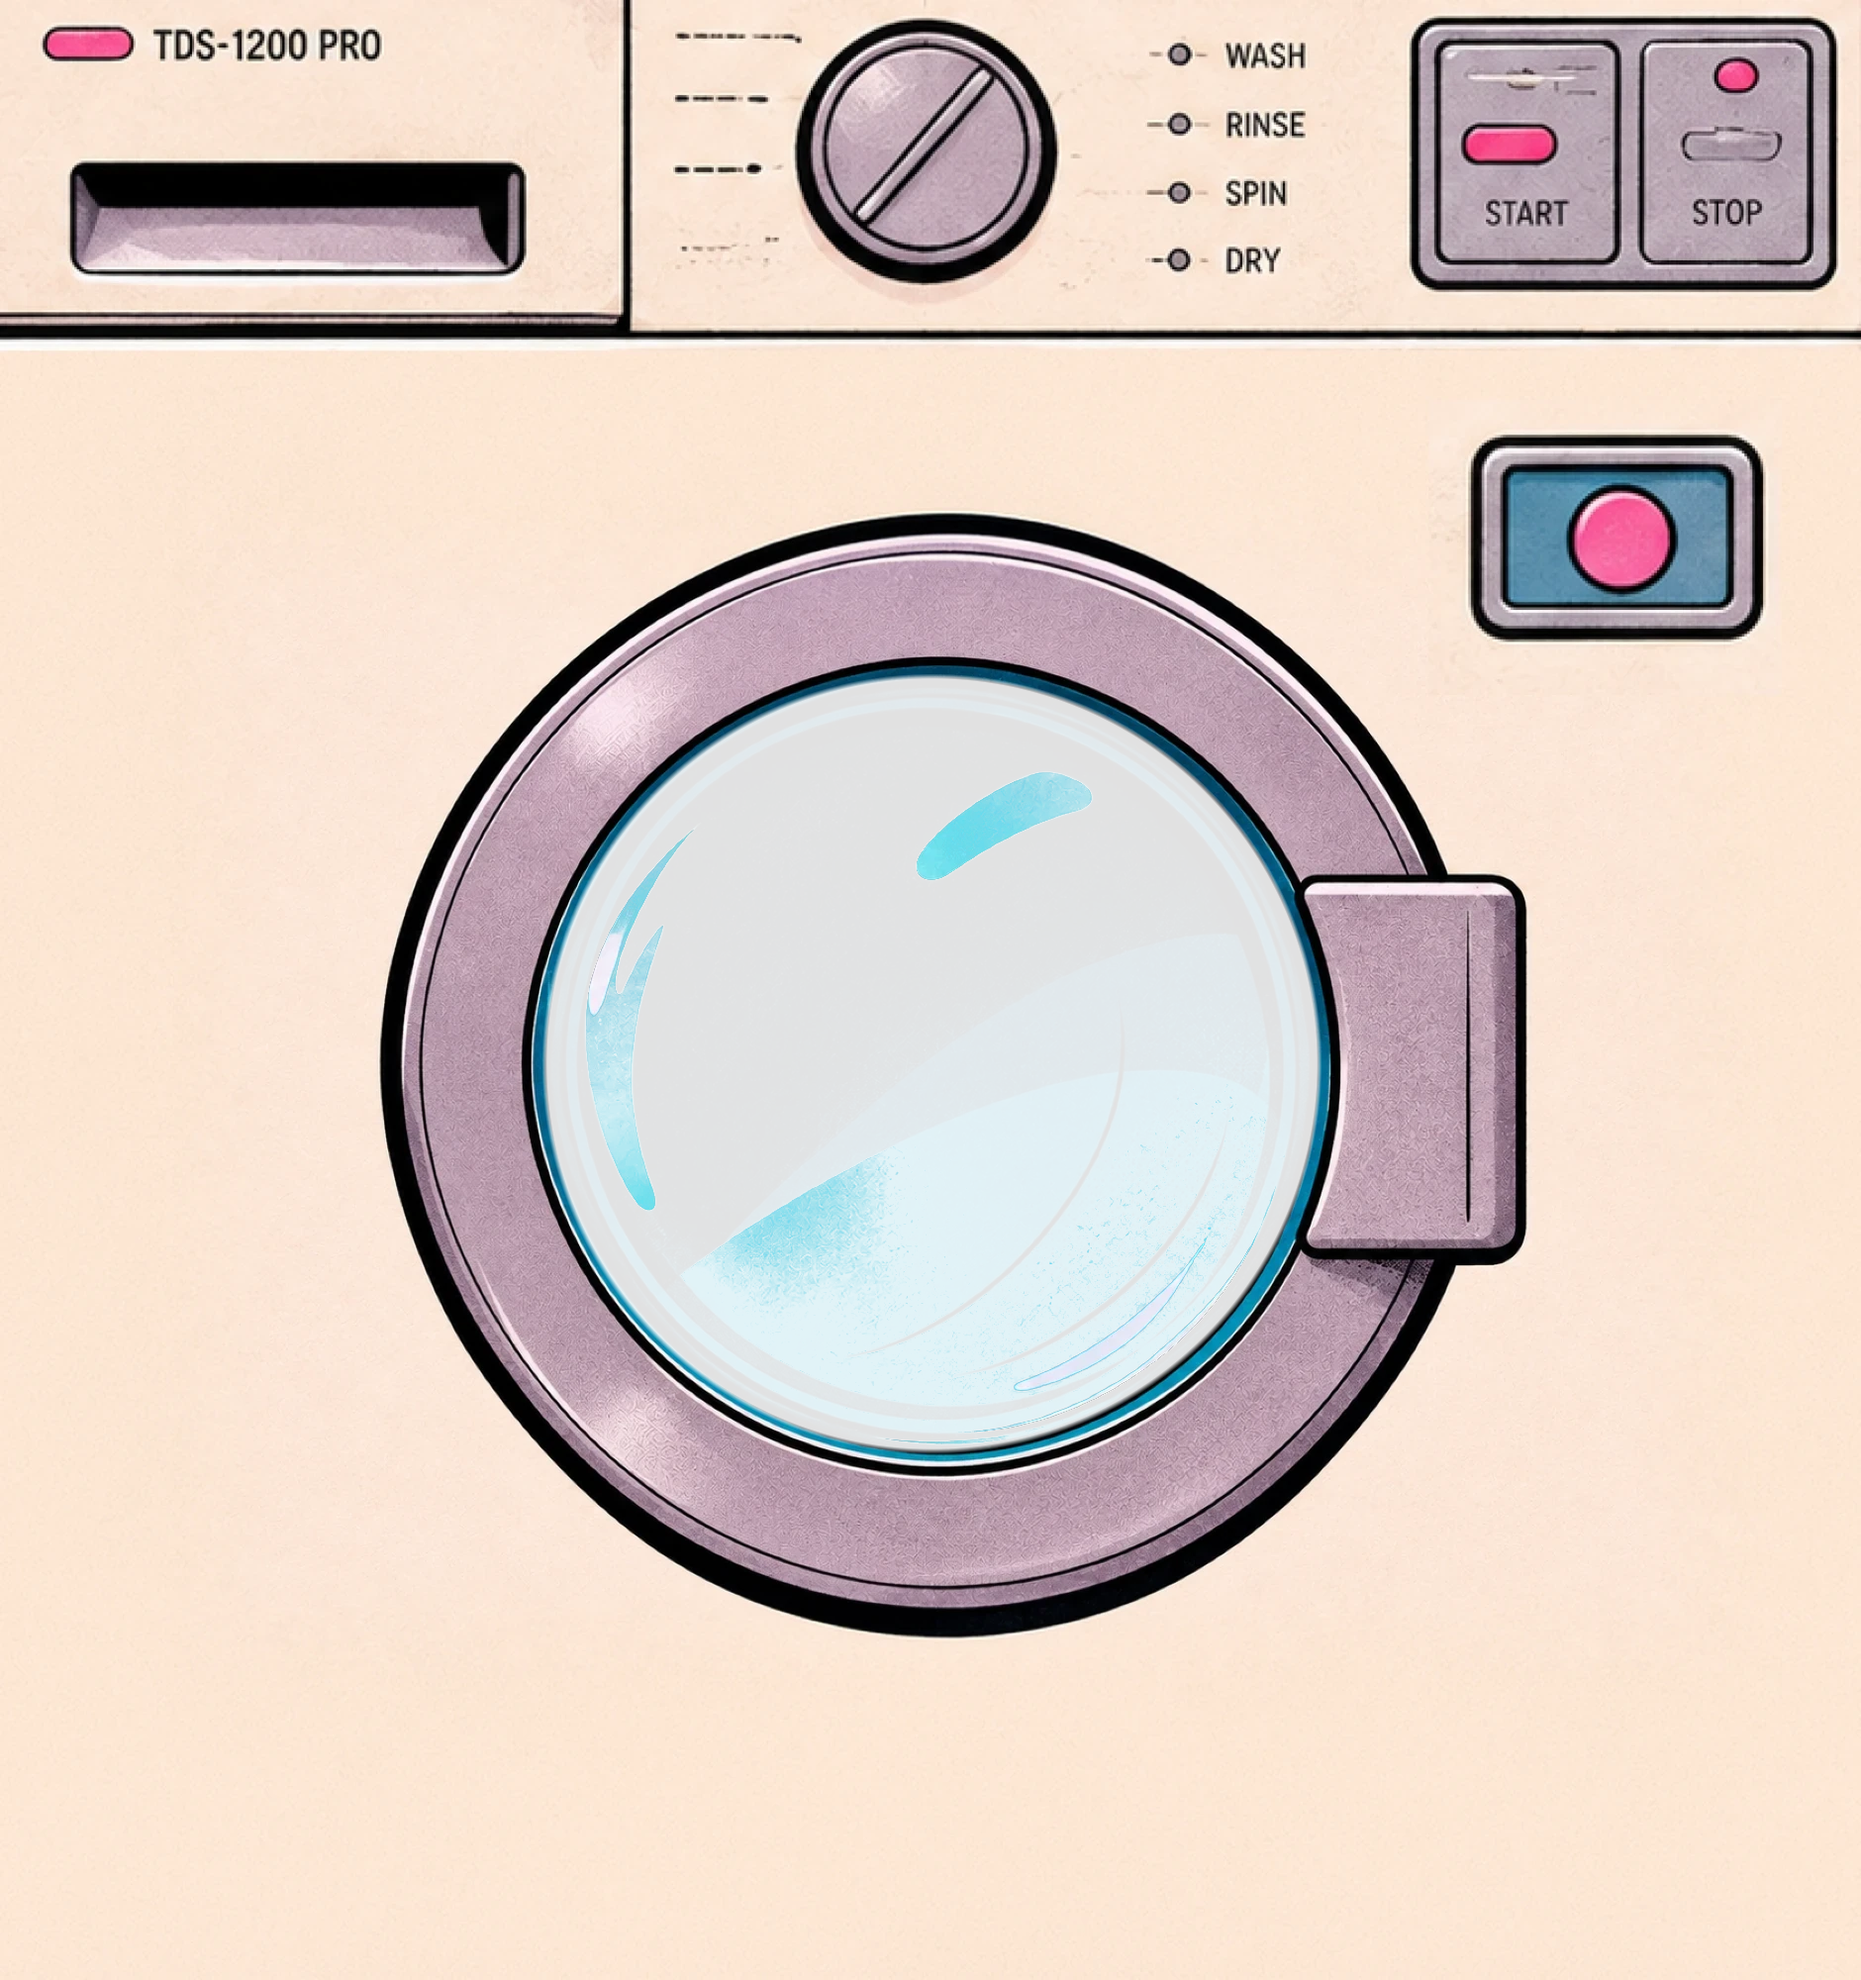
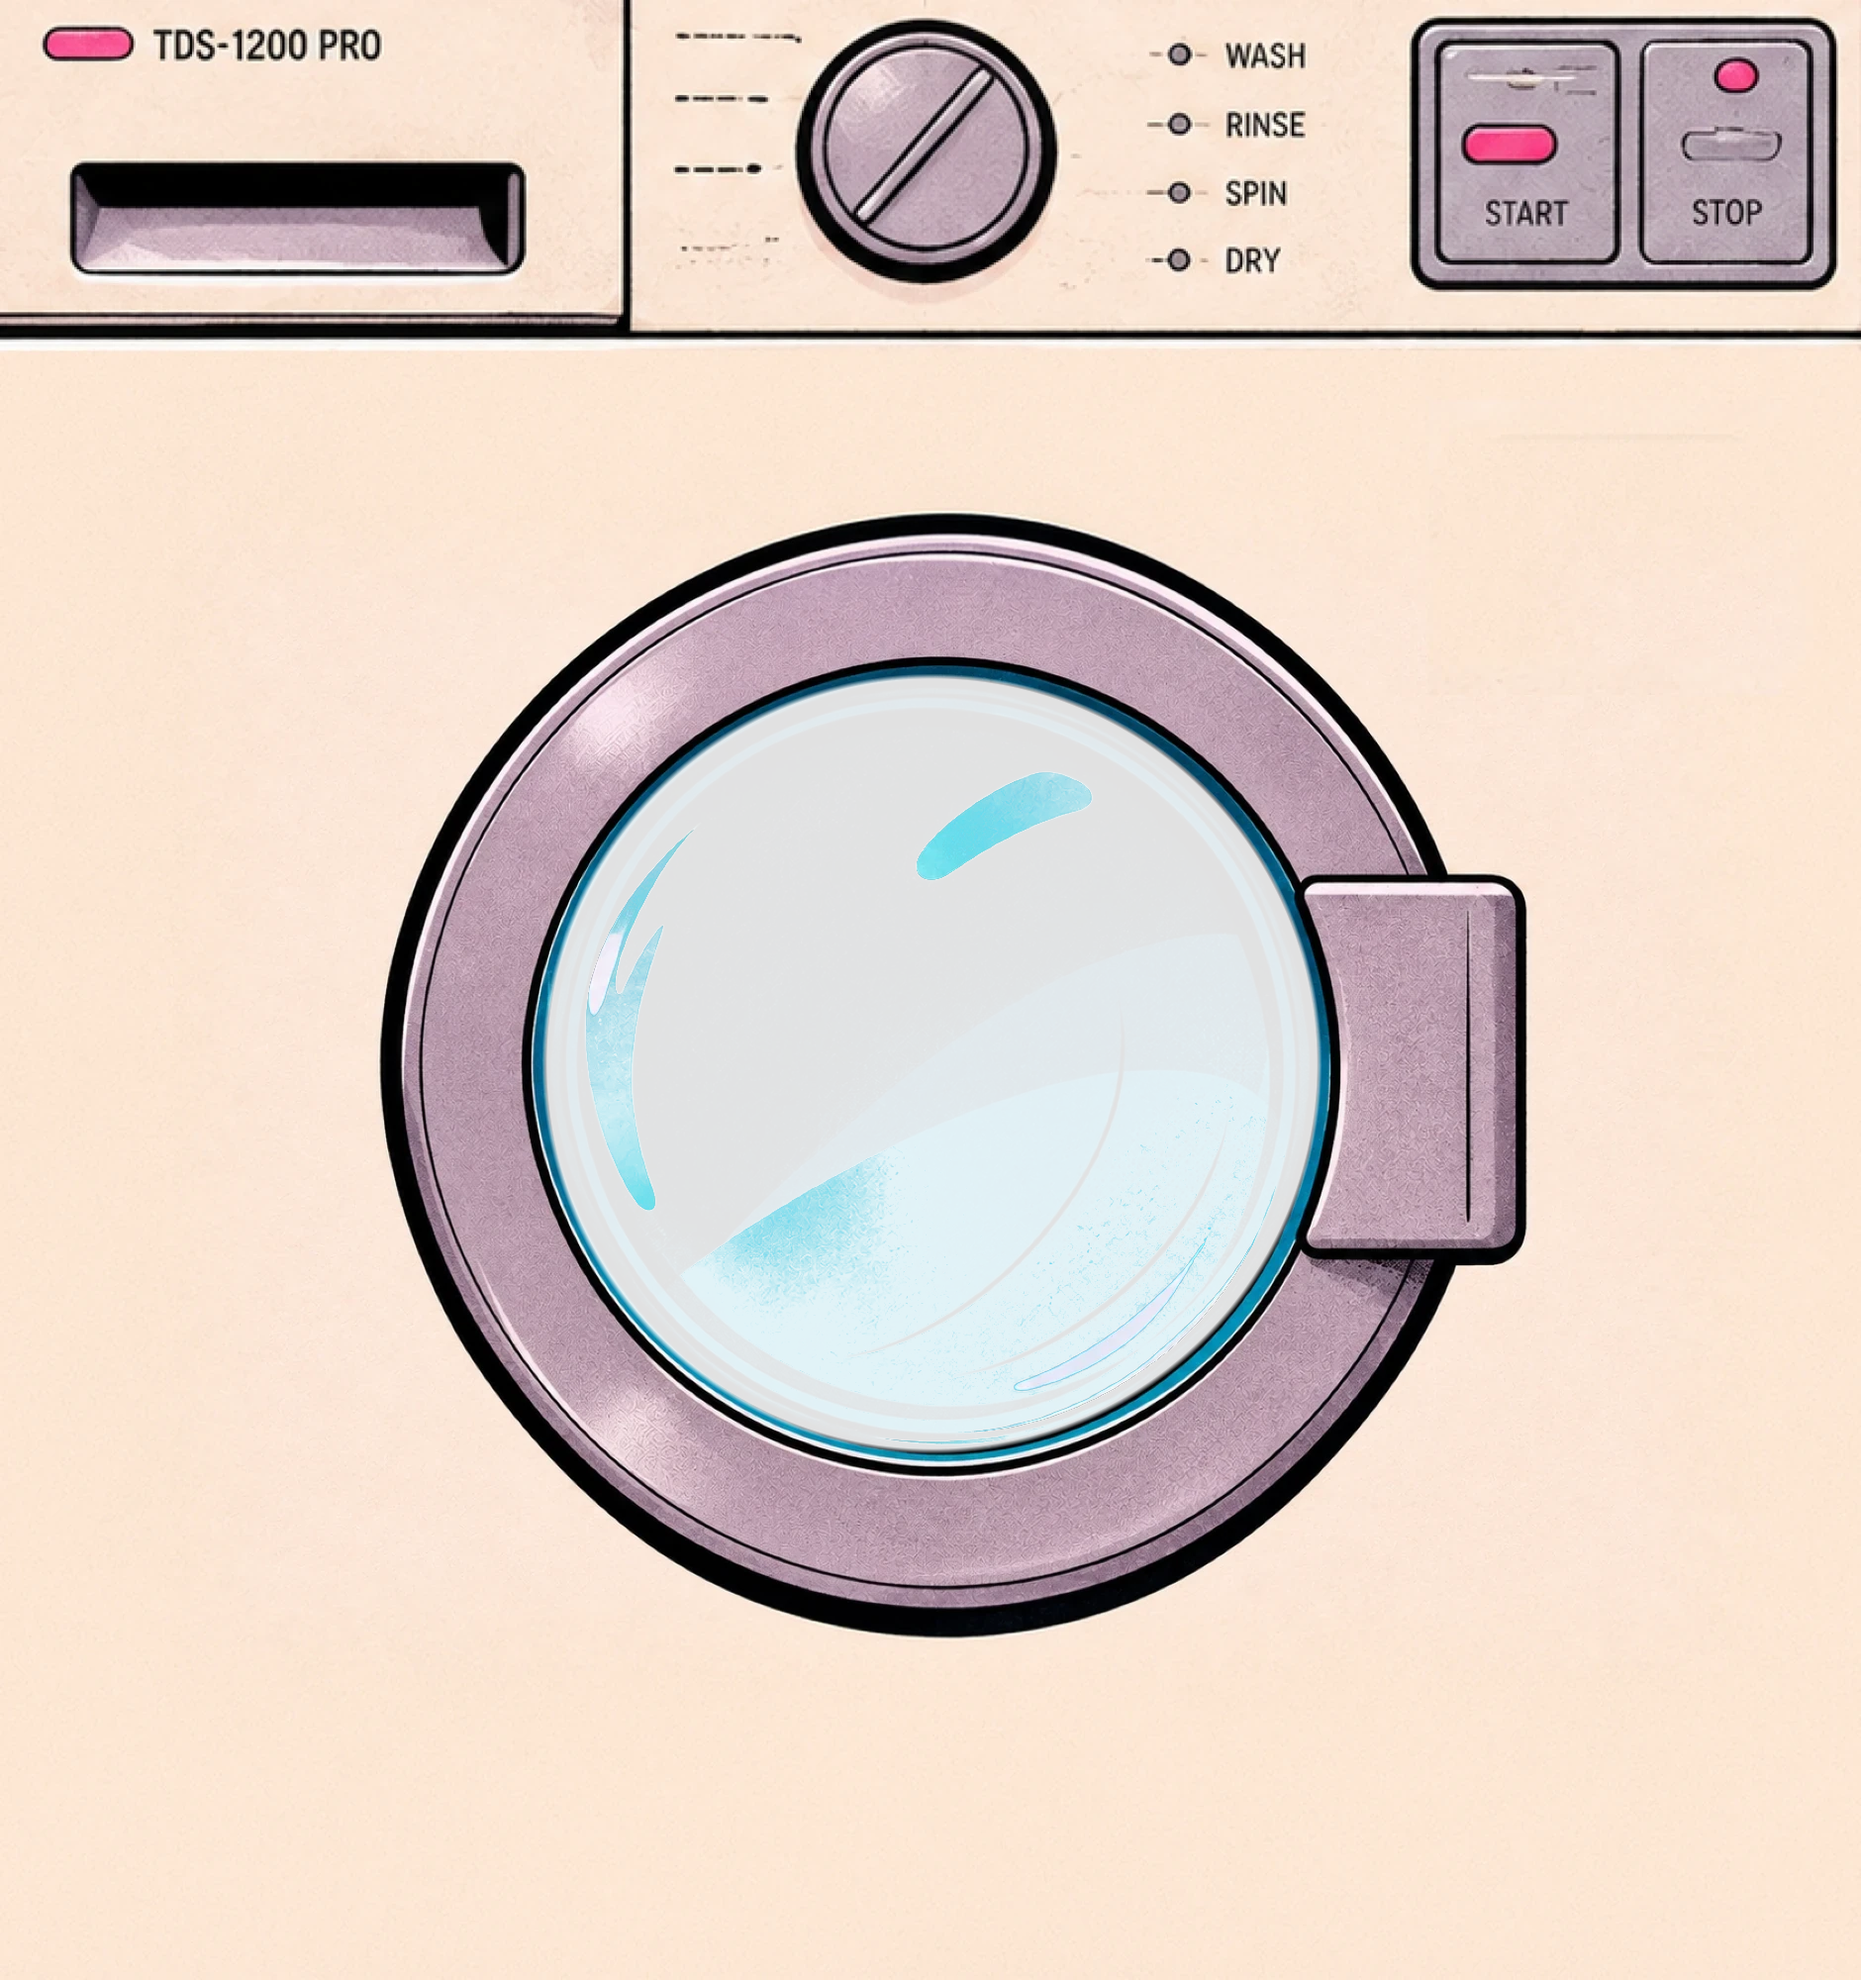
Thinner glow, remove washer side button, paper texture background

Changed region(s): [[0.7713, 0.217, 0.9564, 0.341]]

diff --git a/index.html b/index.html
@@ -139,9 +139,9 @@ button{font:inherit;color:inherit;cursor:inherit}
 #toast.on{transform:translate(-50%,0)}
 
 #panel[data-sec="gallery"]{--pbg:#222;--pfg:var(--paper);padding:0;overflow:hidden}
-#gal{position:absolute;inset:0;background:#fde7d3;touch-action:none} /* 세탁기 몸체와 같은 크림색: 그림이 화면보다 작아도 이어져 보임 */
+#gal{position:absolute;inset:0;background:#fde7d3 url(img/cream_paper.webp) repeat;touch-action:none} /* 세탁기 몸체와 같은 크림색: 그림이 화면보다 작아도 이어져 보임 */
 /* 세탁기 문을 위에 얹고, 유리 원 안으로만 돌아가는 사진이 보이게 */
-#gal .gdoor{position:absolute;z-index:1;pointer-events:none;user-select:none;filter:drop-shadow(0 12px 24px rgba(36,33,42,.3))}
+#gal .gdoor{position:absolute;z-index:1;pointer-events:none;user-select:none} /* 그림자 없음: 세탁기 몸체가 배경 질감과 이어지게 */
 #galc{width:100%;height:100%;display:block;background:#1d1a22}
 #gzoom{position:absolute;inset:0;z-index:2} /* 크게 보기는 세탁기 문 위로 */
 #gal .back{background:var(--paper);color:var(--ink);position:absolute;left:max(16px,env(safe-area-inset-left,0px));top:calc(14px + env(safe-area-inset-top,0px));z-index:2}
@@ -404,7 +404,7 @@ function addHots(imgs){
 // 글로우용 마스크: 물건 가장자리에서의 '거리'로 빛 세기를 정함(흐림 방식은 오목한 모서리에 빛이 몰려 두꺼워짐)
 // → 어느 곳이든 같은 두께로 퍼짐. 사파리도 지원하도록 캔버스 필터 없이 직접 계산
 function makeGlow(img){
-  const W=1024,H=512,RADIUS=13,c=canvasOf(img,W,H),g=c.getContext('2d'),id=g.getImageData(0,0,W,H),d=id.data,n=W*H,INF=1e9;
+  const W=1024,H=512,RADIUS=11,c=canvasOf(img,W,H),g=c.getContext('2d'),id=g.getImageData(0,0,W,H),d=id.data,n=W*H,INF=1e9;
   const f=new Float64Array(n);for(let i=0;i<n;i++)f[i]=d[i*4+3]>127?0:INF;
   const edt1=(a,len,stride,off)=>{ // 1차원 정확한 거리 변환(Felzenszwalb)
     const v=new Int32Array(len),z=new Float64Array(len+1),q=new Float64Array(len);let k=0;v[0]=0;z[0]=-INF;z[1]=INF;
@@ -680,6 +680,7 @@ function placeDoor(){
   const d=$('#gal .gdoor'),c=$('#galc');if(!d||!c)return;
   const w=Math.min(innerWidth,innerHeight)*.6*1880/782,h=w*2000/1880,l=innerWidth/2-941/1880*w,t=innerHeight/2-1074/2000*h; // 유리 지름 = 화면 짧은 쪽 95%, 세탁기 몸체는 화면 밖으로 넘침
   Object.assign(d.style,{width:w+'px',height:h+'px',left:l+'px',top:t+'px'});
+  const g=$('#gal');if(g){const k=w/1880;g.style.backgroundSize=640*k+'px '+320*k+'px';g.style.backgroundPosition=l+'px '+t+'px'} // 종이 질감을 세탁기 그림과 같은 크기로
   c.style.clipPath=`circle(${391/1880*w}px at ${l+941/1880*w}px ${t+1074/2000*h}px)`;
   if(gal)gal.glassR=391/1880*w;
 }
